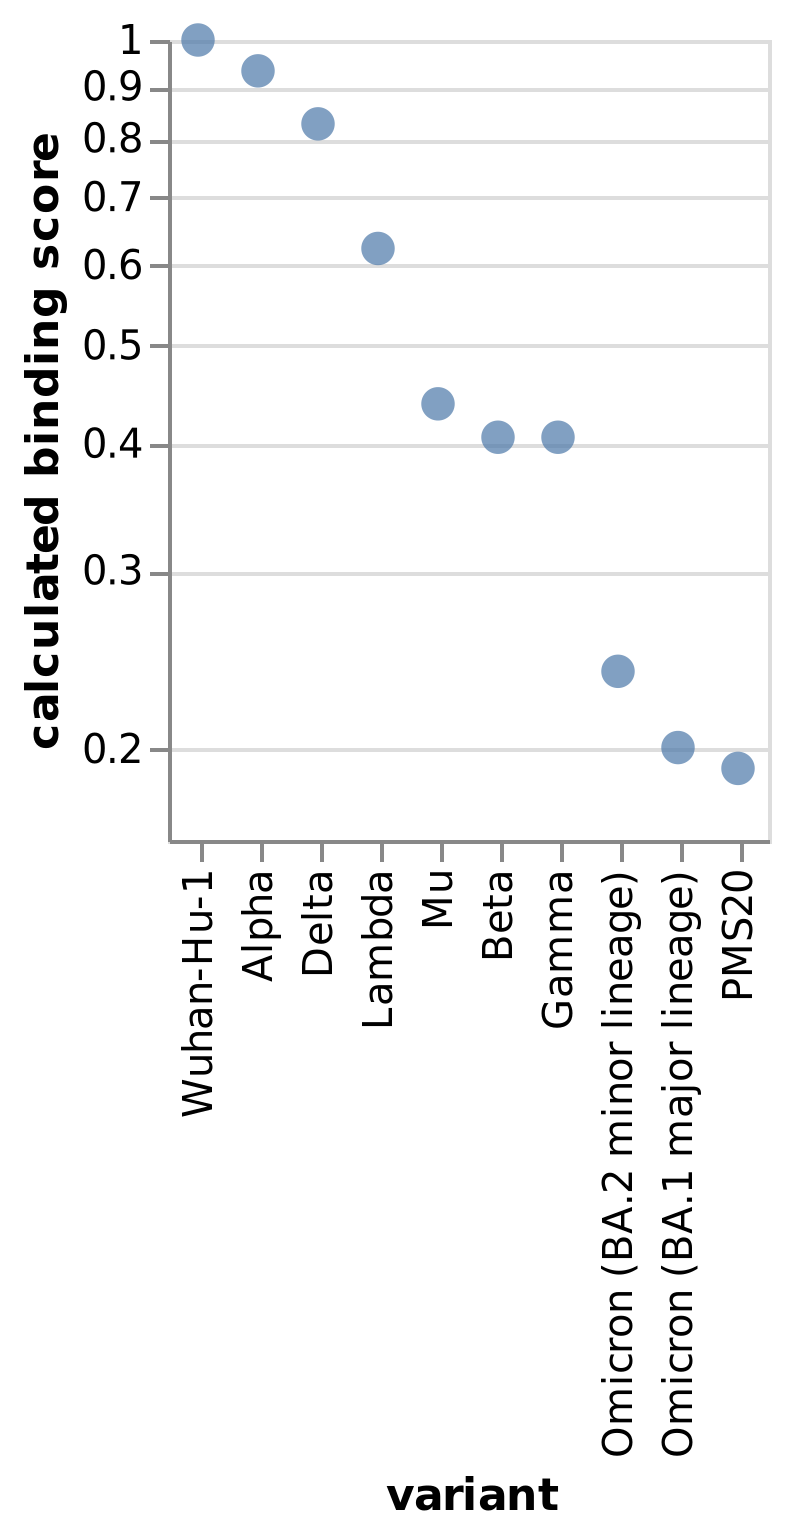
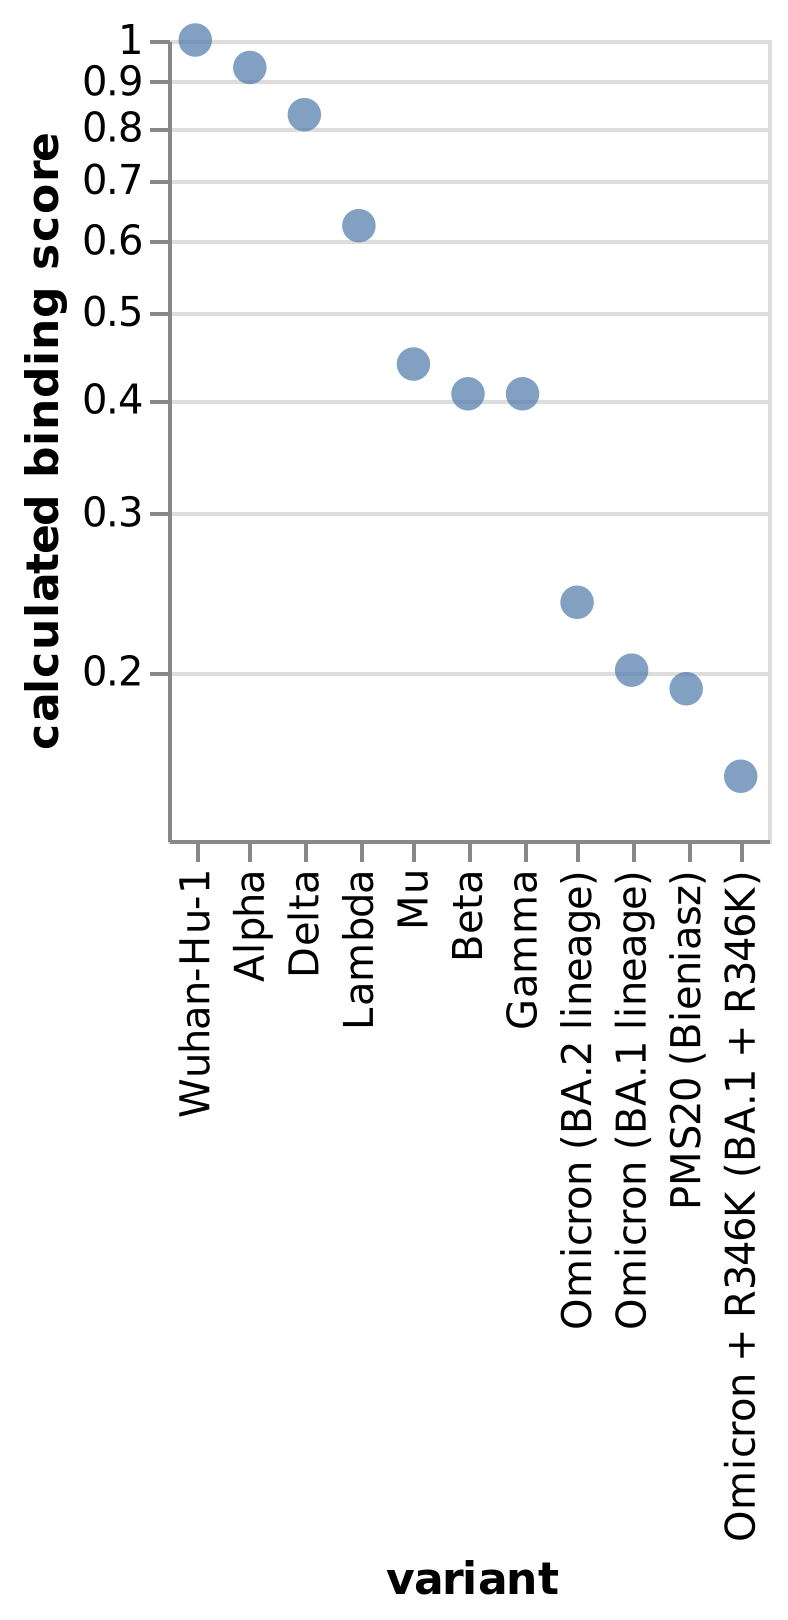
add Omicron BA.2 and R346K

diff --git a/docs/variants.html b/docs/variants.html
@@ -14,7 +14,7 @@
   <div id="vis"></div>
   <script>
     (function(vegaEmbed) {
-      var spec = {"config": {"view": {"continuousWidth": 400, "continuousHeight": 300}}, "data": {"name": "data-5e2c6dc4421bd989f955e030b5a56a65"}, "mark": {"type": "point", "filled": true, "size": 70}, "encoding": {"tooltip": [{"type": "nominal", "field": "variant"}, {"type": "nominal", "field": "mutated RBD sites"}, {"type": "quantitative", "field": "calculated binding score", "format": ".2f"}], "x": {"type": "nominal", "field": "variant", "sort": ["Wuhan-Hu-1", "Alpha", "Delta", "Lambda", "Mu", "Beta", "Gamma", "Omicron (BA.2 minor lineage)", "Omicron (BA.1 major lineage)", "PMS20"]}, "y": {"type": "quantitative", "field": "calculated binding score", "scale": {"domain": [0.16268617395012858, 1.0], "nice": false, "type": "log"}}}, "height": 200, "width": 150, "$schema": "https://vega.github.io/schema/vega-lite/v4.8.1.json", "datasets": {"data-5e2c6dc4421bd989f955e030b5a56a65": [{"variant": "Wuhan-Hu-1", "mutated RBD sites": "", "mut_list": [], "calculated binding score": 1.0}, {"variant": "Alpha", "mutated RBD sites": "501", "mut_list": [501], "calculated binding score": 0.932350824885985}, {"variant": "Beta", "mutated RBD sites": "417 484 501", "mut_list": [417, 484, 501], "calculated binding score": 0.40587052285326763}, {"variant": "Gamma", "mutated RBD sites": "417 484 501", "mut_list": [417, 484, 501], "calculated binding score": 0.40587052285326763}, {"variant": "Delta", "mutated RBD sites": "452 478", "mut_list": [452, 478], "calculated binding score": 0.8266777394809641}, {"variant": "Lambda", "mutated RBD sites": "452 490", "mut_list": [452, 490], "calculated binding score": 0.6230022395760562}, {"variant": "Mu", "mutated RBD sites": "346 484 501", "mut_list": [346, 484, 501], "calculated binding score": 0.437855592501803}, {"variant": "Omicron (BA.1 major lineage)", "mutated RBD sites": "339 371 373 375 417 440 446 477 478 484 493 496 498 501 505", "mut_list": [339, 371, 373, 375, 417, 440, 446, 477, 478, 484, 493, 496, 498, 501, 505], "calculated binding score": 0.20066988947524164}, {"variant": "Omicron (BA.2 minor lineage)", "mutated RBD sites": "339 371 373 375 376 405 408 417 440 477 478 484 493 498 501 505", "mut_list": [339, 371, 373, 375, 376, 405, 408, 417, 440, 477, 478, 484, 493, 498, 501, 505], "calculated binding score": 0.23858550255855163}, {"variant": "PMS20", "mutated RBD sites": "346 417 440 445 455 475 484 501", "mut_list": [346, 417, 440, 445, 455, 475, 484, 501], "calculated binding score": 0.19139549876485715}]}};
+      var spec = {"config": {"view": {"continuousWidth": 400, "continuousHeight": 300}}, "data": {"name": "data-892e6f38e2c7d82e59f620f126cf70b2"}, "mark": {"type": "point", "filled": true, "size": 70}, "encoding": {"tooltip": [{"type": "nominal", "field": "variant"}, {"type": "nominal", "field": "mutated RBD sites"}, {"type": "quantitative", "field": "calculated binding score", "format": ".2f"}], "x": {"type": "nominal", "field": "variant", "sort": ["Wuhan-Hu-1", "Alpha", "Delta", "Lambda", "Mu", "Beta", "Gamma", "Omicron (BA.2 lineage)", "Omicron (BA.1 lineage)", "PMS20 (Bieniasz)", "Omicron + R346K (BA.1 + R346K)"]}, "y": {"type": "quantitative", "field": "calculated binding score", "scale": {"domain": [0.13015891600261104, 1.0], "nice": false, "type": "log"}}}, "height": 200, "width": 150, "$schema": "https://vega.github.io/schema/vega-lite/v4.8.1.json", "datasets": {"data-892e6f38e2c7d82e59f620f126cf70b2": [{"variant": "Wuhan-Hu-1", "mutated RBD sites": "", "mut_list": [], "calculated binding score": 1.0}, {"variant": "Alpha", "mutated RBD sites": "501", "mut_list": [501], "calculated binding score": 0.932350824885985}, {"variant": "Beta", "mutated RBD sites": "417 484 501", "mut_list": [417, 484, 501], "calculated binding score": 0.40587052285326763}, {"variant": "Gamma", "mutated RBD sites": "417 484 501", "mut_list": [417, 484, 501], "calculated binding score": 0.40587052285326763}, {"variant": "Delta", "mutated RBD sites": "452 478", "mut_list": [452, 478], "calculated binding score": 0.8266777394809641}, {"variant": "Lambda", "mutated RBD sites": "452 490", "mut_list": [452, 490], "calculated binding score": 0.6230022395760562}, {"variant": "Mu", "mutated RBD sites": "346 484 501", "mut_list": [346, 484, 501], "calculated binding score": 0.437855592501803}, {"variant": "Omicron (BA.1 lineage)", "mutated RBD sites": "339 371 373 375 417 440 446 477 478 484 493 496 498 501 505", "mut_list": [339, 371, 373, 375, 417, 440, 446, 477, 478, 484, 493, 496, 498, 501, 505], "calculated binding score": 0.20066988947524164}, {"variant": "Omicron + R346K (BA.1 + R346K)", "mutated RBD sites": "339 346 371 373 375 417 440 446 477 478 484 493 496 498 501 505", "mut_list": [339, 346, 371, 373, 375, 417, 440, 446, 477, 478, 484, 493, 496, 498, 501, 505], "calculated binding score": 0.15312813647366005}, {"variant": "Omicron (BA.2 lineage)", "mutated RBD sites": "339 371 373 375 376 405 408 417 440 477 478 484 493 498 501 505", "mut_list": [339, 371, 373, 375, 376, 405, 408, 417, 440, 477, 478, 484, 493, 498, 501, 505], "calculated binding score": 0.23858550255855163}, {"variant": "PMS20 (Bieniasz)", "mutated RBD sites": "346 417 440 445 455 475 484 501", "mut_list": [346, 417, 440, 445, 455, 475, 484, 501], "calculated binding score": 0.19139549876485715}]}};
       var embedOpt = {"mode": "vega-lite"};
 
       function showError(el, error){

diff --git a/results/variants/variants.html b/results/variants/variants.html
@@ -14,7 +14,7 @@
   <div id="vis"></div>
   <script>
     (function(vegaEmbed) {
-      var spec = {"config": {"view": {"continuousWidth": 400, "continuousHeight": 300}}, "data": {"name": "data-5e2c6dc4421bd989f955e030b5a56a65"}, "mark": {"type": "point", "filled": true, "size": 70}, "encoding": {"tooltip": [{"type": "nominal", "field": "variant"}, {"type": "nominal", "field": "mutated RBD sites"}, {"type": "quantitative", "field": "calculated binding score", "format": ".2f"}], "x": {"type": "nominal", "field": "variant", "sort": ["Wuhan-Hu-1", "Alpha", "Delta", "Lambda", "Mu", "Beta", "Gamma", "Omicron (BA.2 minor lineage)", "Omicron (BA.1 major lineage)", "PMS20"]}, "y": {"type": "quantitative", "field": "calculated binding score", "scale": {"domain": [0.16268617395012858, 1.0], "nice": false, "type": "log"}}}, "height": 200, "width": 150, "$schema": "https://vega.github.io/schema/vega-lite/v4.8.1.json", "datasets": {"data-5e2c6dc4421bd989f955e030b5a56a65": [{"variant": "Wuhan-Hu-1", "mutated RBD sites": "", "mut_list": [], "calculated binding score": 1.0}, {"variant": "Alpha", "mutated RBD sites": "501", "mut_list": [501], "calculated binding score": 0.932350824885985}, {"variant": "Beta", "mutated RBD sites": "417 484 501", "mut_list": [417, 484, 501], "calculated binding score": 0.40587052285326763}, {"variant": "Gamma", "mutated RBD sites": "417 484 501", "mut_list": [417, 484, 501], "calculated binding score": 0.40587052285326763}, {"variant": "Delta", "mutated RBD sites": "452 478", "mut_list": [452, 478], "calculated binding score": 0.8266777394809641}, {"variant": "Lambda", "mutated RBD sites": "452 490", "mut_list": [452, 490], "calculated binding score": 0.6230022395760562}, {"variant": "Mu", "mutated RBD sites": "346 484 501", "mut_list": [346, 484, 501], "calculated binding score": 0.437855592501803}, {"variant": "Omicron (BA.1 major lineage)", "mutated RBD sites": "339 371 373 375 417 440 446 477 478 484 493 496 498 501 505", "mut_list": [339, 371, 373, 375, 417, 440, 446, 477, 478, 484, 493, 496, 498, 501, 505], "calculated binding score": 0.20066988947524164}, {"variant": "Omicron (BA.2 minor lineage)", "mutated RBD sites": "339 371 373 375 376 405 408 417 440 477 478 484 493 498 501 505", "mut_list": [339, 371, 373, 375, 376, 405, 408, 417, 440, 477, 478, 484, 493, 498, 501, 505], "calculated binding score": 0.23858550255855163}, {"variant": "PMS20", "mutated RBD sites": "346 417 440 445 455 475 484 501", "mut_list": [346, 417, 440, 445, 455, 475, 484, 501], "calculated binding score": 0.19139549876485715}]}};
+      var spec = {"config": {"view": {"continuousWidth": 400, "continuousHeight": 300}}, "data": {"name": "data-892e6f38e2c7d82e59f620f126cf70b2"}, "mark": {"type": "point", "filled": true, "size": 70}, "encoding": {"tooltip": [{"type": "nominal", "field": "variant"}, {"type": "nominal", "field": "mutated RBD sites"}, {"type": "quantitative", "field": "calculated binding score", "format": ".2f"}], "x": {"type": "nominal", "field": "variant", "sort": ["Wuhan-Hu-1", "Alpha", "Delta", "Lambda", "Mu", "Beta", "Gamma", "Omicron (BA.2 lineage)", "Omicron (BA.1 lineage)", "PMS20 (Bieniasz)", "Omicron + R346K (BA.1 + R346K)"]}, "y": {"type": "quantitative", "field": "calculated binding score", "scale": {"domain": [0.13015891600261104, 1.0], "nice": false, "type": "log"}}}, "height": 200, "width": 150, "$schema": "https://vega.github.io/schema/vega-lite/v4.8.1.json", "datasets": {"data-892e6f38e2c7d82e59f620f126cf70b2": [{"variant": "Wuhan-Hu-1", "mutated RBD sites": "", "mut_list": [], "calculated binding score": 1.0}, {"variant": "Alpha", "mutated RBD sites": "501", "mut_list": [501], "calculated binding score": 0.932350824885985}, {"variant": "Beta", "mutated RBD sites": "417 484 501", "mut_list": [417, 484, 501], "calculated binding score": 0.40587052285326763}, {"variant": "Gamma", "mutated RBD sites": "417 484 501", "mut_list": [417, 484, 501], "calculated binding score": 0.40587052285326763}, {"variant": "Delta", "mutated RBD sites": "452 478", "mut_list": [452, 478], "calculated binding score": 0.8266777394809641}, {"variant": "Lambda", "mutated RBD sites": "452 490", "mut_list": [452, 490], "calculated binding score": 0.6230022395760562}, {"variant": "Mu", "mutated RBD sites": "346 484 501", "mut_list": [346, 484, 501], "calculated binding score": 0.437855592501803}, {"variant": "Omicron (BA.1 lineage)", "mutated RBD sites": "339 371 373 375 417 440 446 477 478 484 493 496 498 501 505", "mut_list": [339, 371, 373, 375, 417, 440, 446, 477, 478, 484, 493, 496, 498, 501, 505], "calculated binding score": 0.20066988947524164}, {"variant": "Omicron + R346K (BA.1 + R346K)", "mutated RBD sites": "339 346 371 373 375 417 440 446 477 478 484 493 496 498 501 505", "mut_list": [339, 346, 371, 373, 375, 417, 440, 446, 477, 478, 484, 493, 496, 498, 501, 505], "calculated binding score": 0.15312813647366005}, {"variant": "Omicron (BA.2 lineage)", "mutated RBD sites": "339 371 373 375 376 405 408 417 440 477 478 484 493 498 501 505", "mut_list": [339, 371, 373, 375, 376, 405, 408, 417, 440, 477, 478, 484, 493, 498, 501, 505], "calculated binding score": 0.23858550255855163}, {"variant": "PMS20 (Bieniasz)", "mutated RBD sites": "346 417 440 445 455 475 484 501", "mut_list": [346, 417, 440, 445, 455, 475, 484, 501], "calculated binding score": 0.19139549876485715}]}};
       var embedOpt = {"mode": "vega-lite"};
 
       function showError(el, error){

diff --git a/results/variants/variants.tex b/results/variants/variants.tex
@@ -1,16 +1,17 @@
 \begin{tabular}{ll}
 \toprule
-                     variant &                                               mutated RBD sites \\
+                       variant &                                               mutated RBD sites \\
 \midrule
-                  Wuhan-Hu-1 &                                                                 \\
-                       Alpha &                                                             501 \\
-                        Beta &                                                     417 484 501 \\
-                       Gamma &                                                     417 484 501 \\
-                       Delta &                                                         452 478 \\
-                      Lambda &                                                         452 490 \\
-                          Mu &                                                     346 484 501 \\
-Omicron (BA.1 major lineage) &     339 371 373 375 417 440 446 477 478 484 493 496 498 501 505 \\
-Omicron (BA.2 minor lineage) & 339 371 373 375 376 405 408 417 440 477 478 484 493 498 501 505 \\
-                       PMS20 &                                 346 417 440 445 455 475 484 501 \\
+                    Wuhan-Hu-1 &                                                                 \\
+                         Alpha &                                                             501 \\
+                          Beta &                                                     417 484 501 \\
+                         Gamma &                                                     417 484 501 \\
+                         Delta &                                                         452 478 \\
+                        Lambda &                                                         452 490 \\
+                            Mu &                                                     346 484 501 \\
+        Omicron (BA.1 lineage) &     339 371 373 375 417 440 446 477 478 484 493 496 498 501 505 \\
+Omicron + R346K (BA.1 + R346K) & 339 346 371 373 375 417 440 446 477 478 484 493 496 498 501 505 \\
+        Omicron (BA.2 lineage) & 339 371 373 375 376 405 408 417 440 477 478 484 493 498 501 505 \\
+              PMS20 (Bieniasz) &                                 346 417 440 445 455 475 484 501 \\
 \bottomrule
 \end{tabular}
